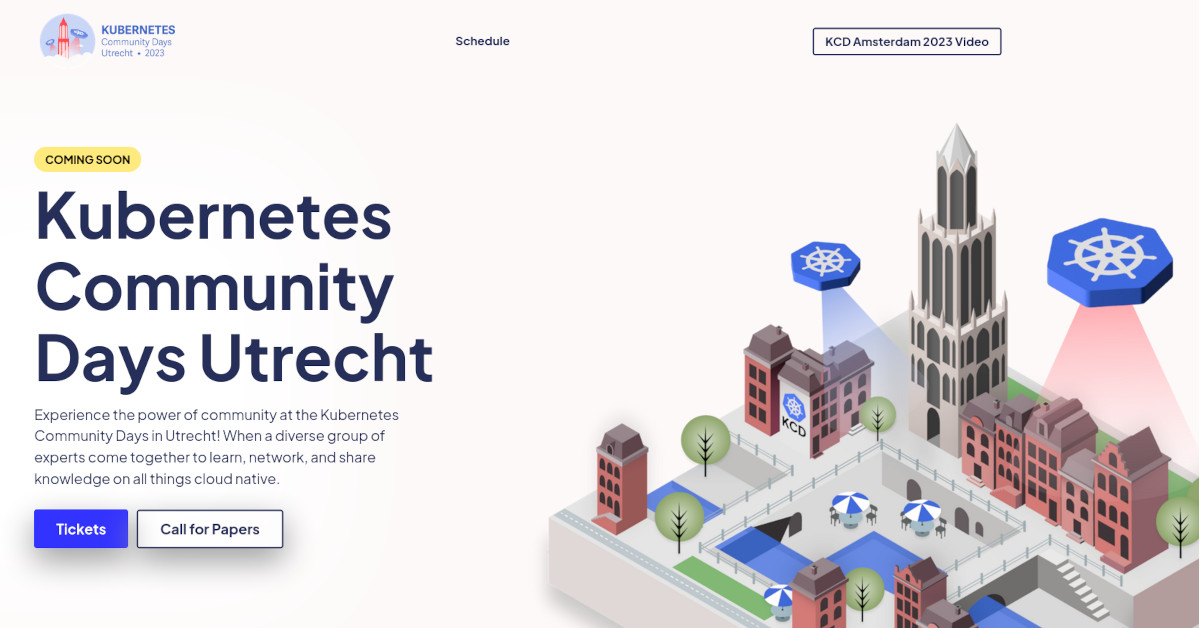
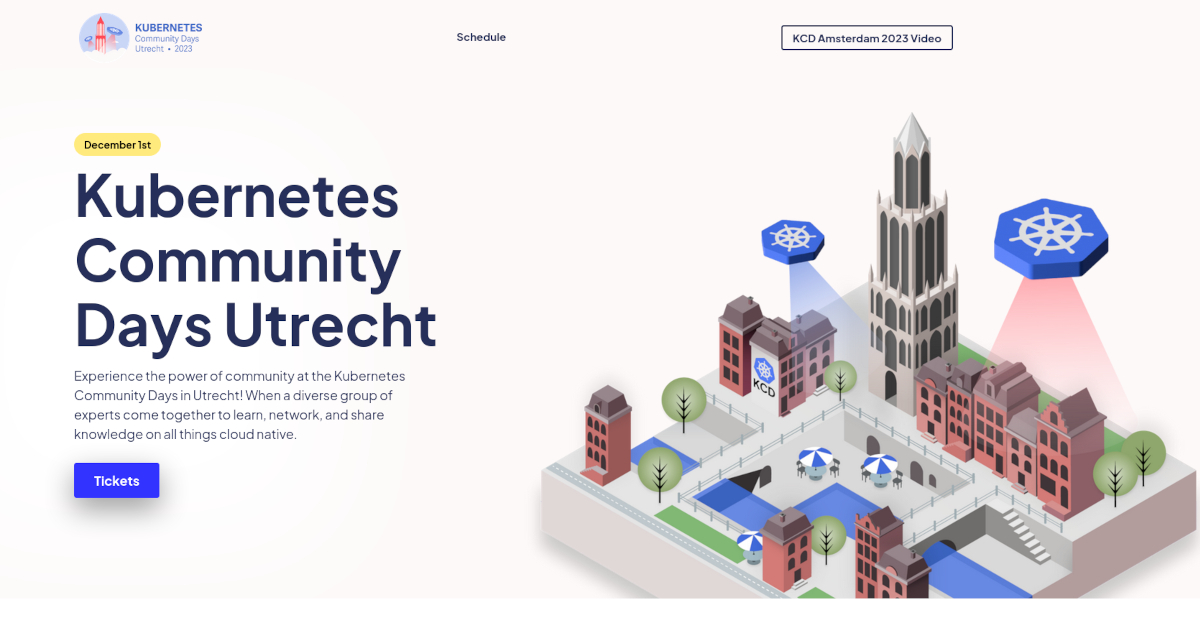
chore: close cfp

diff --git a/src/components/pages/home/hero/hero.jsx b/src/components/pages/home/hero/hero.jsx
@@ -35,14 +35,14 @@ const Hero = () => (
         >
           Tickets
         </Button>
-        <Button
+        {/* <Button
           className="mt-7 ml-3 text-primary-1 shadow-[0_15px_40px_#999999] hover:shadow-[0px_15px_30px_#adadad]"
           theme="primary"
           size="lg"
           {...LINKS.cfp}
         >
           Call for Papers
-        </Button>
+        </Button> */}
       </div>
       <img
         className="absolute -top-44 -left-32 translate-x-1/2 xl:-top-28 xl:-left-8 xl:w-full xl:max-w-[920px] lg:left-[38%] lg:-top-16 lg:w-[750px] lg:translate-x-1 md:top-[37%] md:left-1/2 md:-translate-x-1/2 md:translate-y-1/2 sm:top-[27%] [@media(max-width:600px)]:top-[47%] [@media(max-width:600px)]:w-[600px] [@media(max-width:460px)]:top-[65%] [@media(max-width:460px)]:w-[490px]"

diff --git a/src/components/pages/schedule/hero/hero.jsx b/src/components/pages/schedule/hero/hero.jsx
@@ -25,14 +25,14 @@ const Hero = () => (
       >
         Get your ticket
       </Button>
-      <Button
+      {/* <Button
         className="mt-7 ml-3 text-primary-1 shadow-[0_15px_40px_#999999] hover:shadow-[0px_15px_30px_#adadad]"
         theme="primary"
         size="lg"
         {...LINKS.cfp}
       >
         Call for Papers
-      </Button>
+      </Button> */}
     </div>
   </section>
 );
